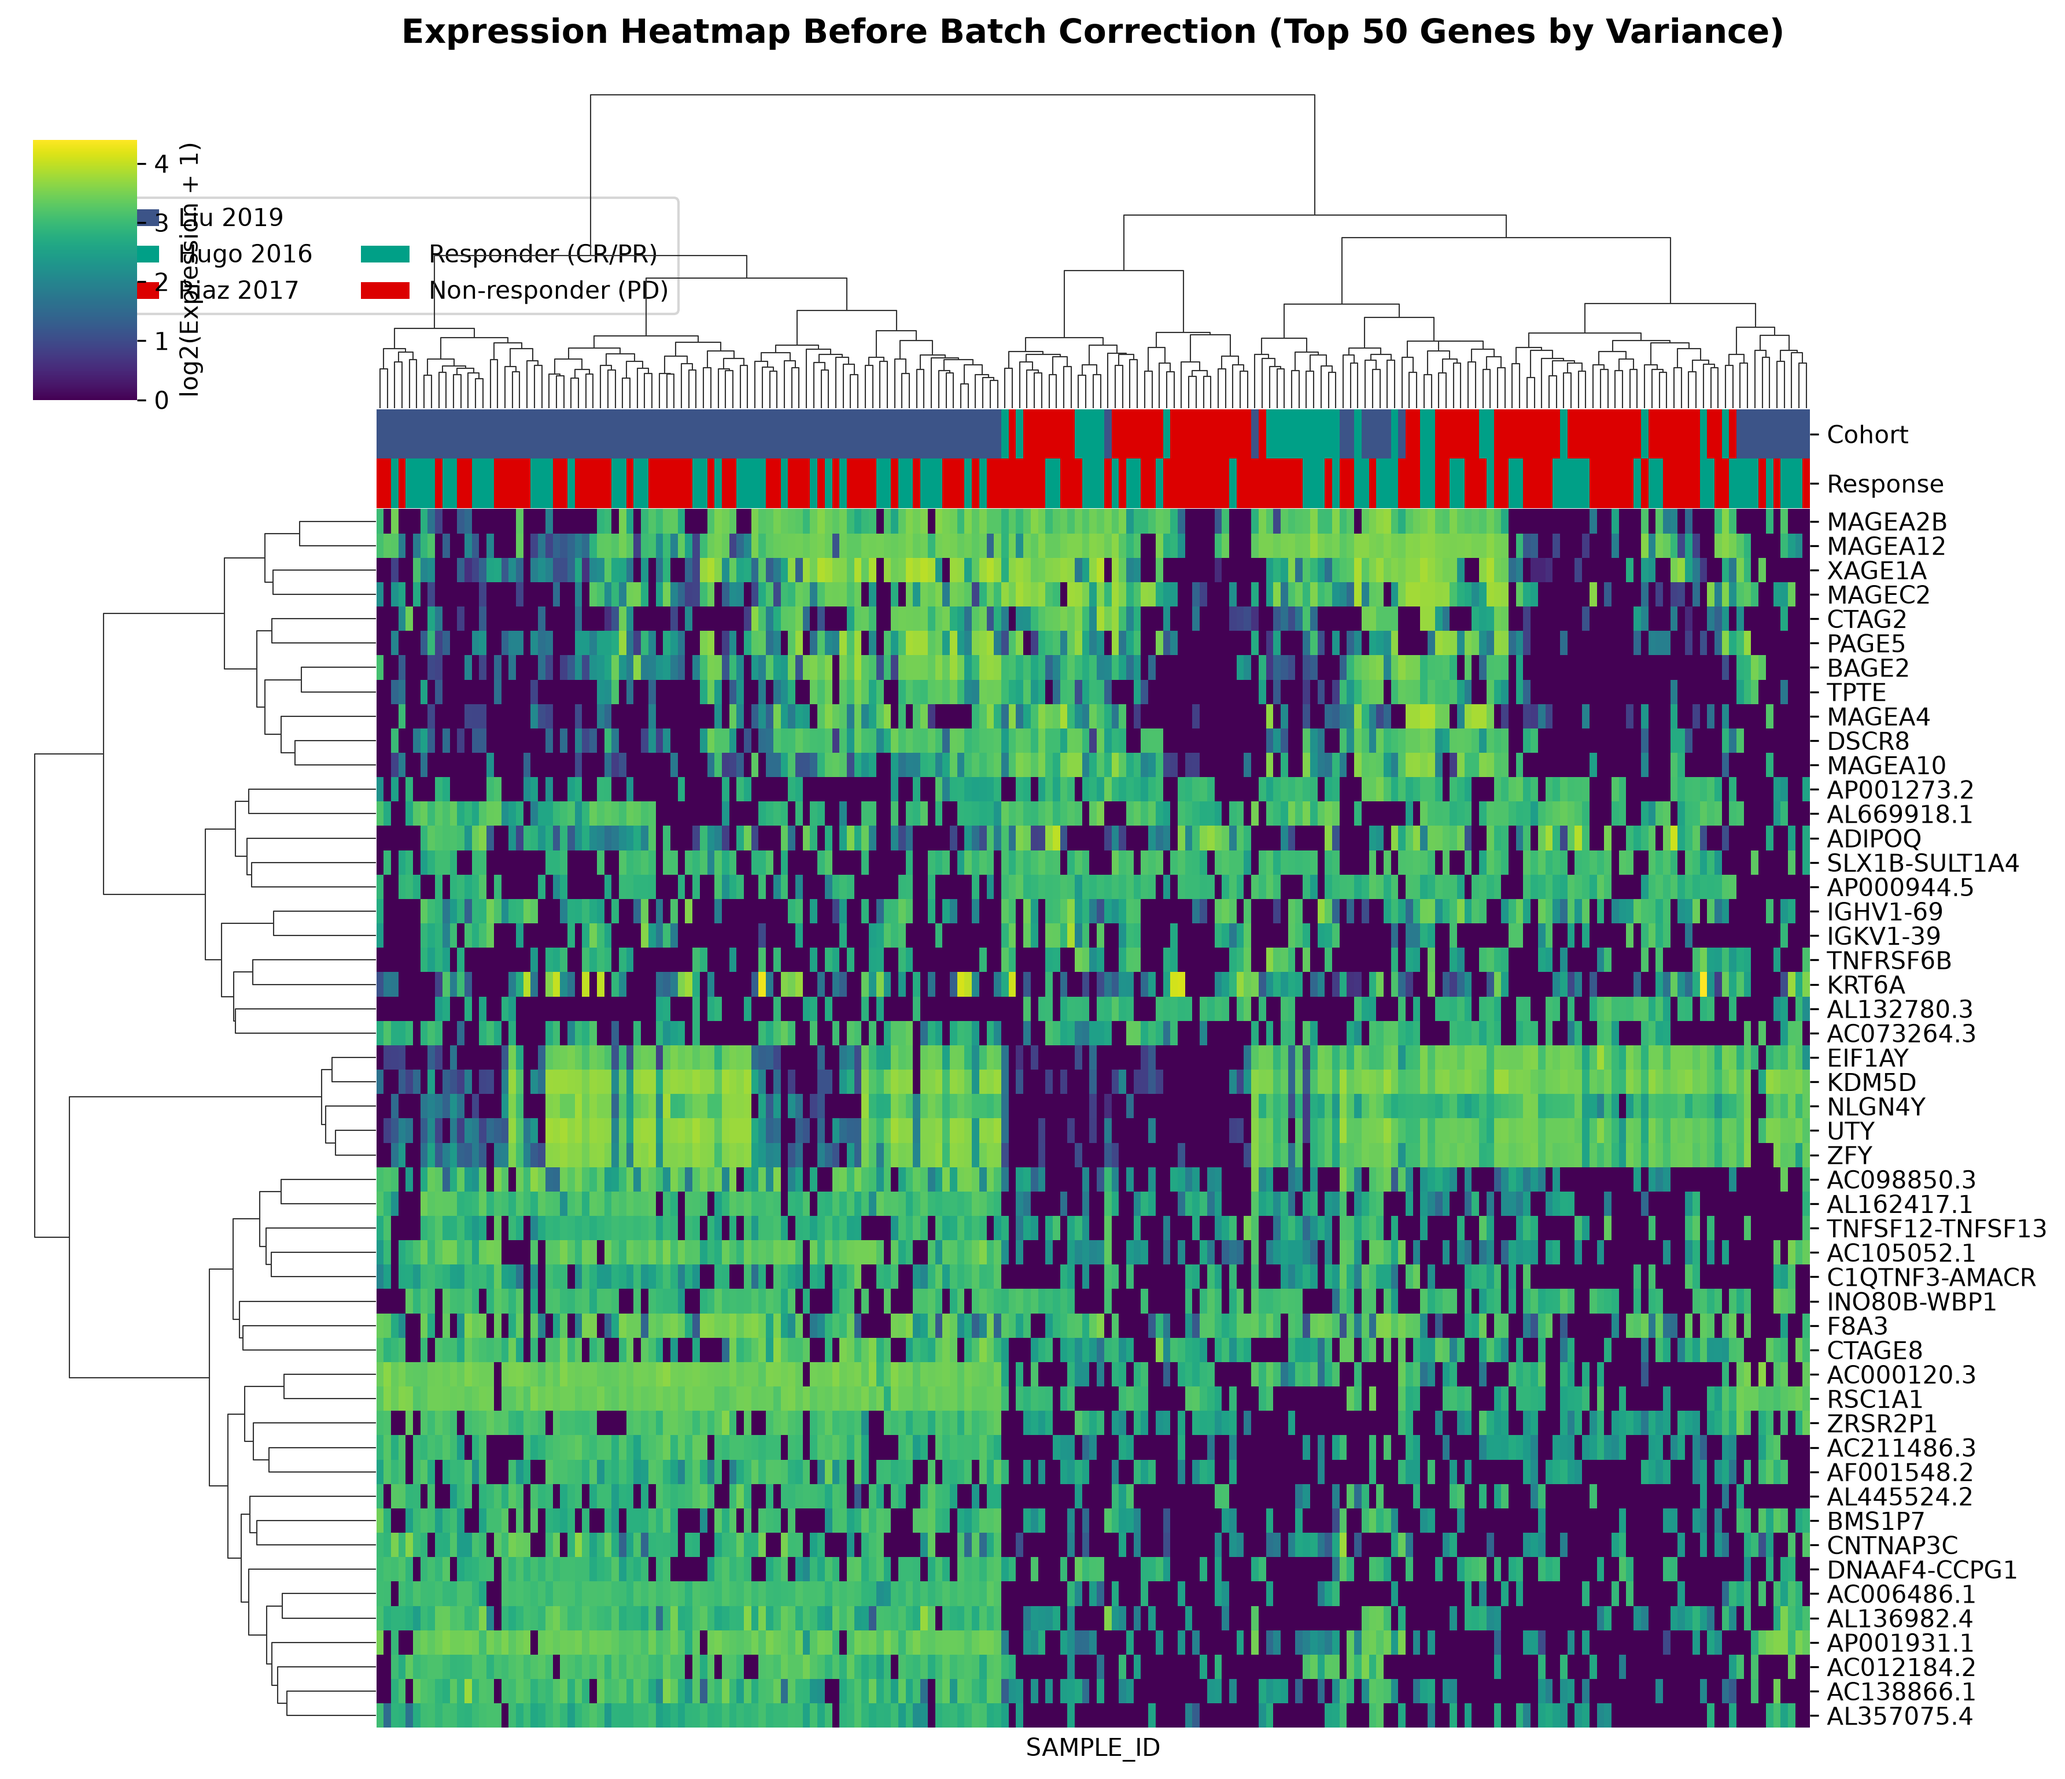
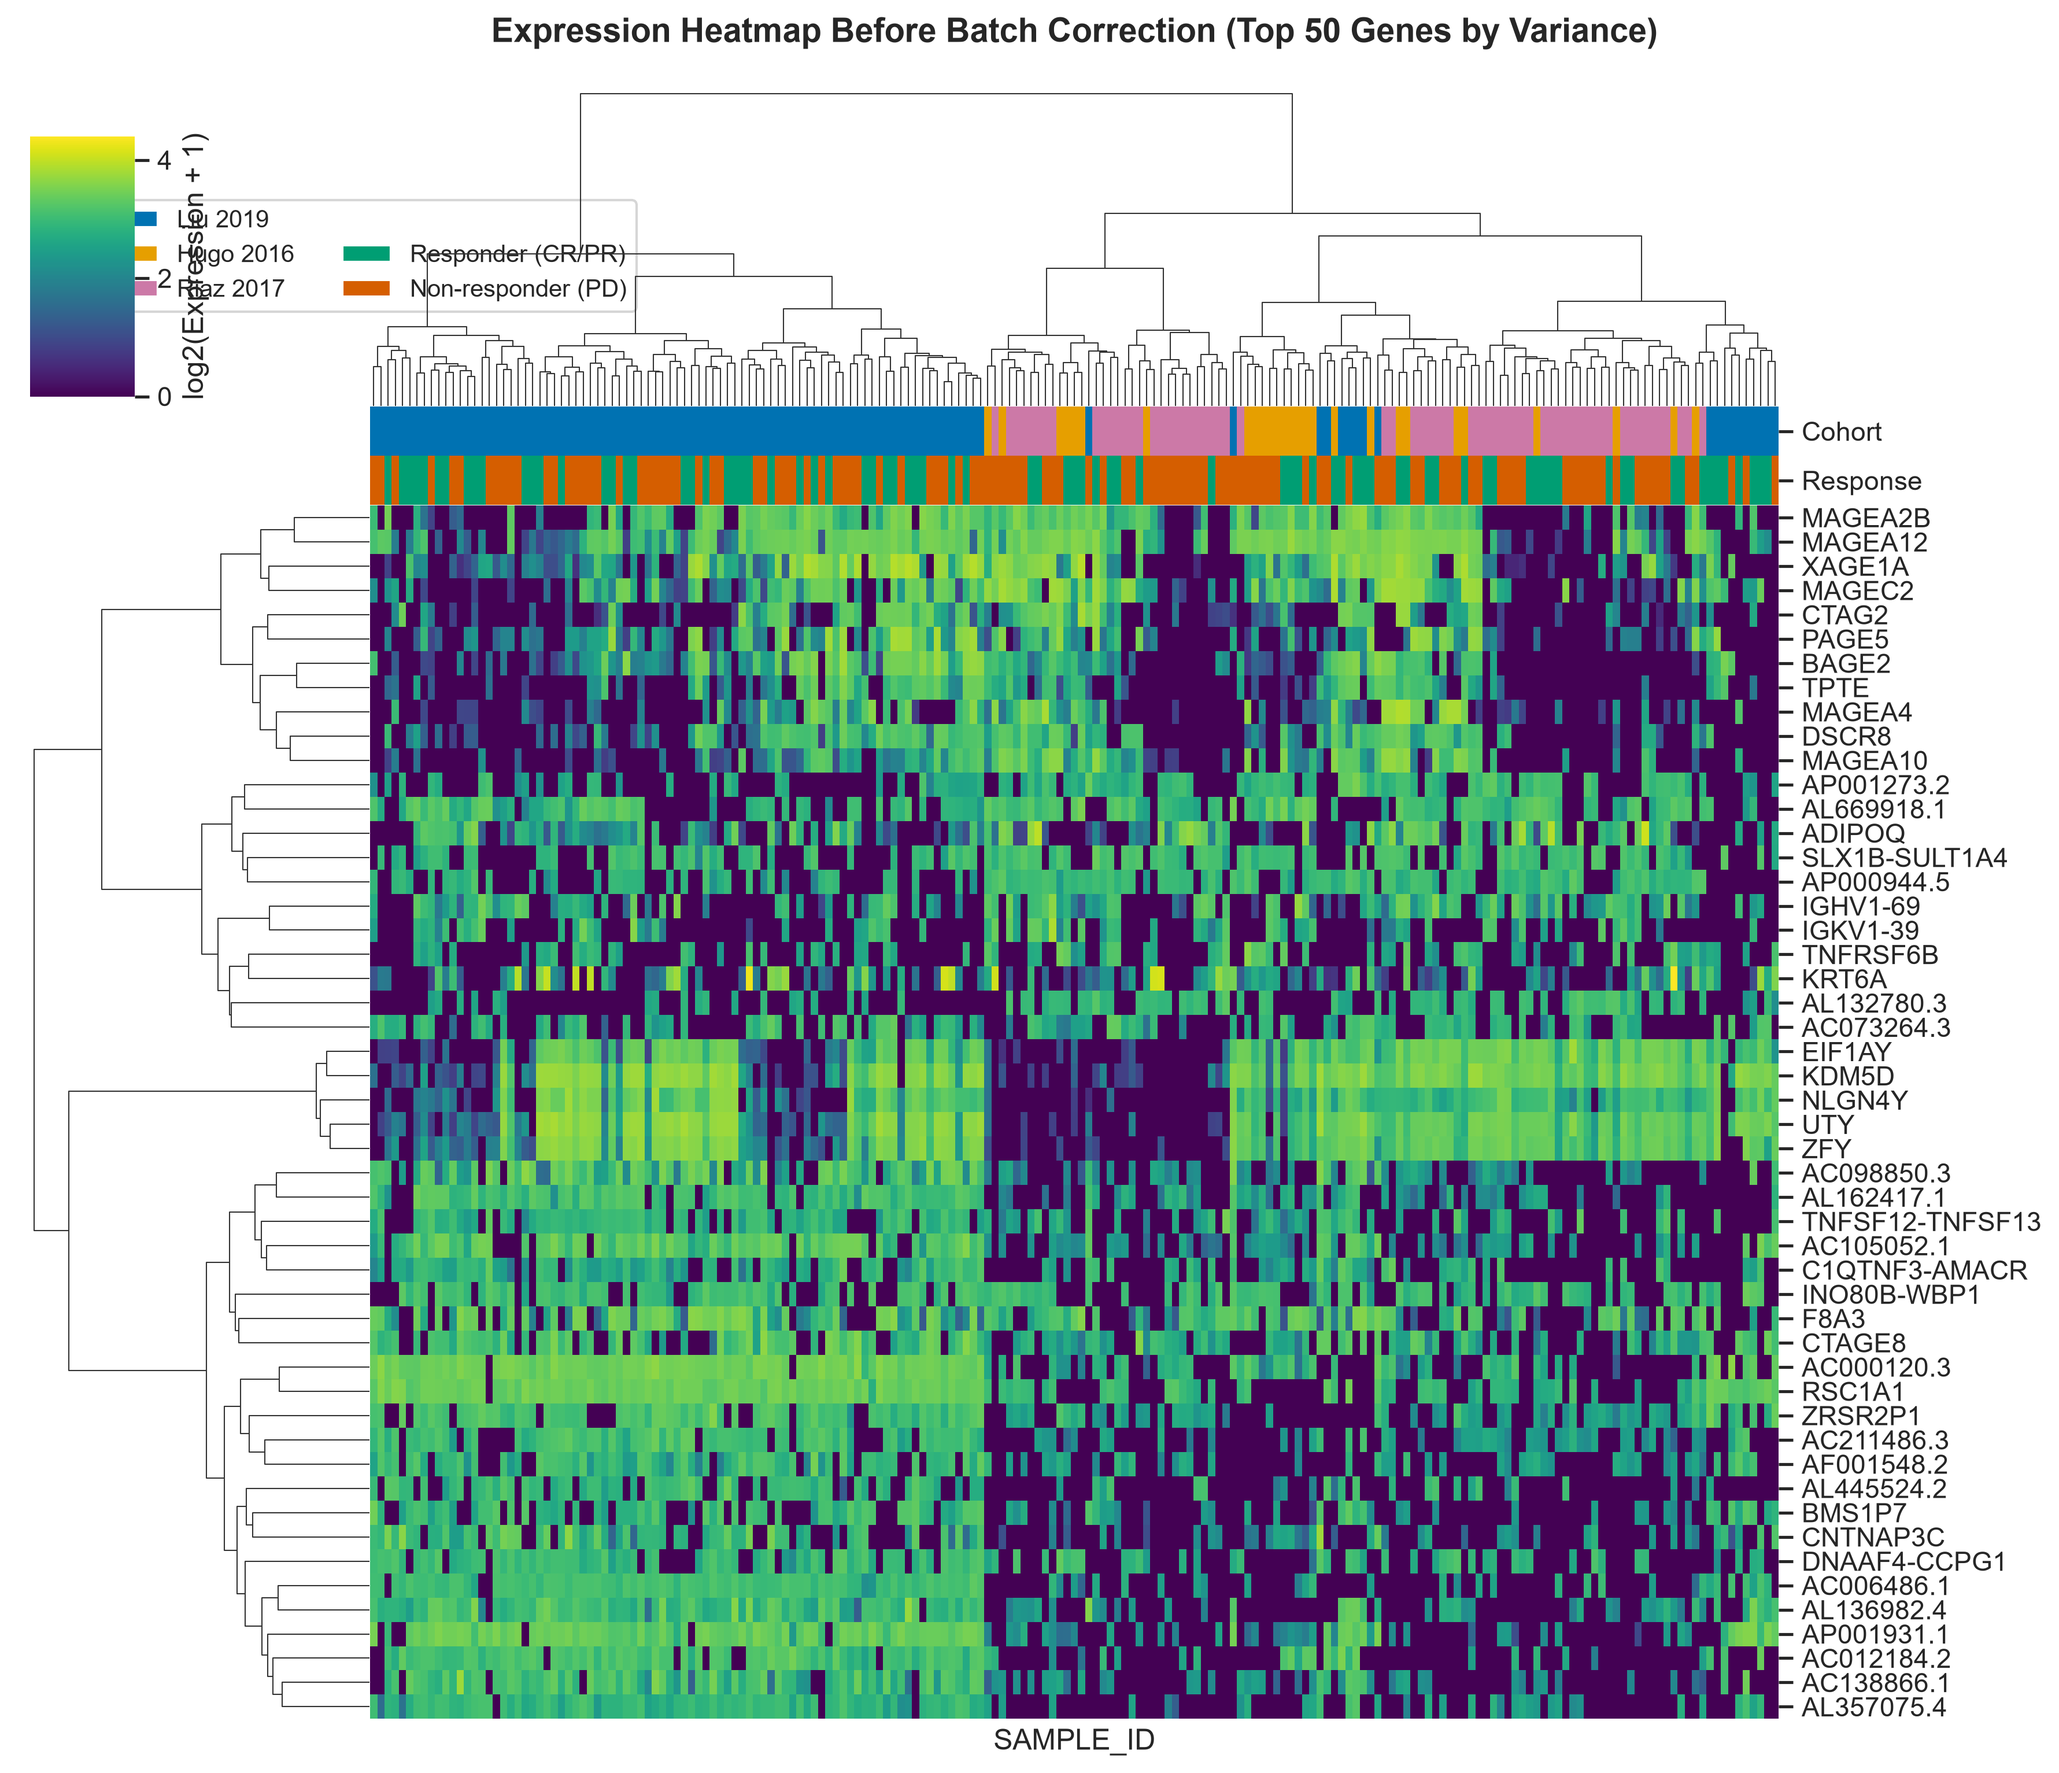
style(plots): update heatmap cohort annotations to Okabe-Ito gold standard palette

diff --git a/q1-response-predictor/scripts/exploratory_plots/run_expression_heatmap.py b/q1-response-predictor/scripts/exploratory_plots/run_expression_heatmap.py
@@ -97,15 +97,14 @@ def main():
     # Map response label
     clin_merged['Response'] = clin_merged['response'].map({1.0: "Responder (CR/PR)", 0.0: "Non-responder (PD)"})
 
-    # Nature Publishing Group (NPG) Palette definitions
-    colors_cohort = {
-        'Liu 2019': '#3C5488',   # NPG Navy
-        'Hugo 2016': '#00A087',  # NPG Teal
-        'Riaz 2017': '#DC0000'   # NPG Red
-    }
+    from src.styles import COHORT_PALETTE, RESPONSE_PALETTE, set_presentation_style
+
+    set_presentation_style()
+
+    colors_cohort = COHORT_PALETTE
     colors_response = {
-        'Responder (CR/PR)': '#00A087',      # NPG Teal/Green (Positive response)
-        'Non-responder (PD)': '#DC0000'      # NPG Red (Negative response)
+        'Responder (CR/PR)': RESPONSE_PALETTE['CR/PR'],
+        'Non-responder (PD)': RESPONSE_PALETTE['PD']
     }
 
     # Setup column annotations (Cohort & Response)
@@ -115,13 +114,13 @@ def main():
 
     # Define legend elements
     legend_elements = [
-        Patch(facecolor='#3C5488', label='Liu 2019'),
-        Patch(facecolor='#00A087', label='Hugo 2016'),
-        Patch(facecolor='#DC0000', label='Riaz 2017'),
+        Patch(facecolor=COHORT_PALETTE['Liu 2019'], label='Liu 2019'),
+        Patch(facecolor=COHORT_PALETTE['Hugo 2016'], label='Hugo 2016'),
+        Patch(facecolor=COHORT_PALETTE['Riaz 2017'], label='Riaz 2017'),
         # Spacer
         Patch(facecolor='white', edgecolor='none', label=''),
-        Patch(facecolor='#00A087', label='Responder (CR/PR)'),
-        Patch(facecolor='#DC0000', label='Non-responder (PD)')
+        Patch(facecolor=RESPONSE_PALETTE['CR/PR'], label='Responder (CR/PR)'),
+        Patch(facecolor=RESPONSE_PALETTE['PD'], label='Non-responder (PD)')
     ]
 
     # 2. IDENTIFY TOP GENES BY VARIANCE
